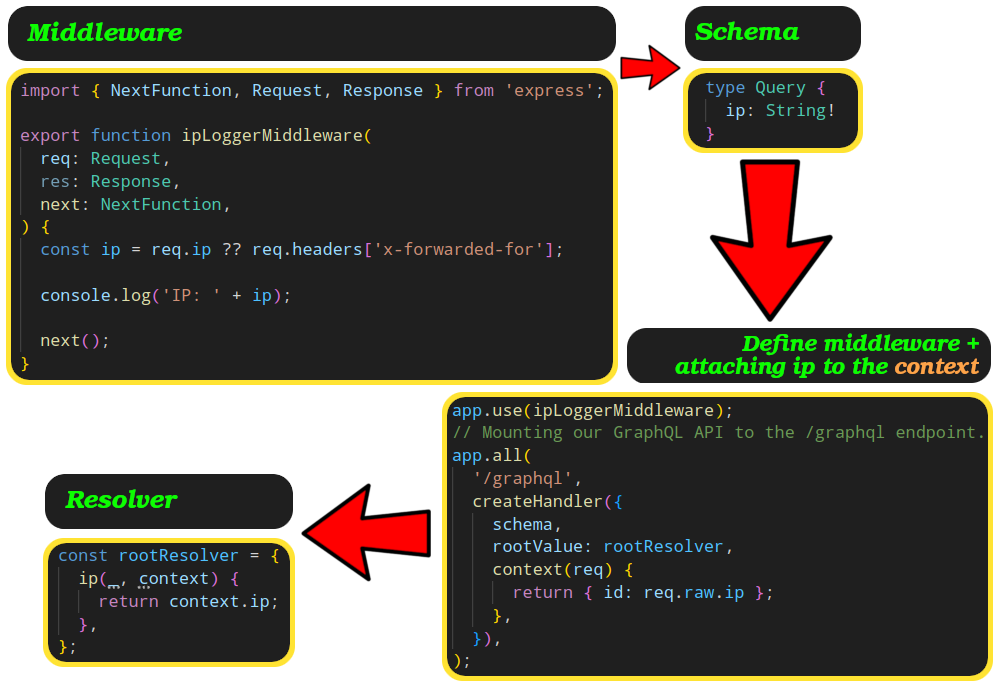
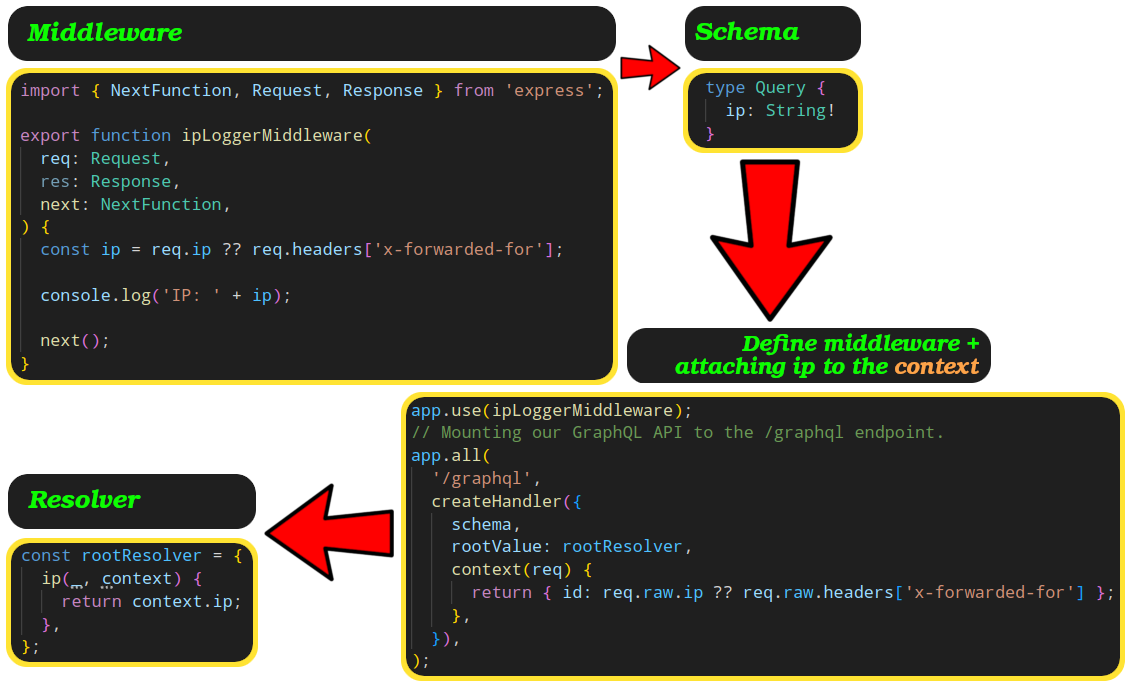
fix: attach IP to context

Changed region(s): [[0.0, 0.0, 1.0, 1.0], [0.0, 0.0305, 0.186, 0.061], [0.217, 0.4267, 0.279, 0.4572]]

diff --git a/apps/profile-e2e/src/support/cleanup.ts b/apps/profile-e2e/src/support/cleanup.ts
@@ -1,0 +1,46 @@
+import axios from 'axios';
+
+/**
+ * @description Its objective is to make my e2e tests repeatable not matter how many times.
+ */
+export async function cleanup() {
+  await cleanupSeededProfile();
+}
+
+async function cleanupSeededProfile() {
+  const defaultData = {
+    id: '15f3920f-a56e-4997-9763-09283dfbe36a',
+    name: 'seeded profile name',
+    email: 'seed@mail.co',
+    avatar: 'seed.avatar/asapoihj.png',
+    username: 'seeded_profile_username',
+  } as const;
+  const query = /* GraphQL */ `
+    mutation UpdateProfile($id: ID!, $input: ProfileInput) {
+      updateProfile(id: $id, input: $input) {
+        id
+      }
+    }
+  `;
+
+  await axios.post(
+    '/graphql',
+    {
+      query,
+      variables: {
+        id: defaultData.id,
+        input: {
+          name: defaultData.name,
+          email: defaultData.email,
+          avatar: defaultData.avatar,
+          username: defaultData.username,
+        },
+      },
+    },
+    {
+      headers: {
+        'content-type': 'application/json',
+      },
+    },
+  );
+}

diff --git a/apps/profile-e2e/src/profile/profile.spec.ts b/apps/profile-e2e/src/profile/profile.spec.ts
@@ -1,7 +1,12 @@
 import axios from 'axios';
+import { cleanup } from '../support/cleanup';
 
 describe('POST /graphql', () => {
   const profileId = '15f3920f-a56e-4997-9763-09283dfbe36a';
+
+  afterAll(async () => {
+    await cleanup();
+  });
 
   it('should return profile with only an id name', async () => {
     const query = /* GraphQL */ `
@@ -95,5 +100,26 @@ describe('POST /graphql', () => {
       name: 'Mohammad Jawad (Kasir)',
       email: 'new@fancy.email',
     });
+  });
+
+  it('should return my IP', async () => {
+    const query = /* GraphQL */ `
+      {
+        ip
+      }
+    `;
+
+    const res = await axios.post(
+      '/graphql',
+      { query },
+      {
+        headers: {
+          'content-type': 'application/json',
+        },
+      },
+    );
+
+    expect(res.status).toBe(200);
+    expect(res.data.data.ip).toBe('::1');
   });
 });

diff --git a/apps/profile/src/main.ts b/apps/profile/src/main.ts
@@ -100,7 +100,7 @@ app.all(
     schema,
     rootValue: rootResolver,
     context(req) {
-      return { id: req.raw.ip };
+      return { ip: req.raw.ip ?? req.raw.headers['x-forwarded-for'] };
     },
   }),
 );
